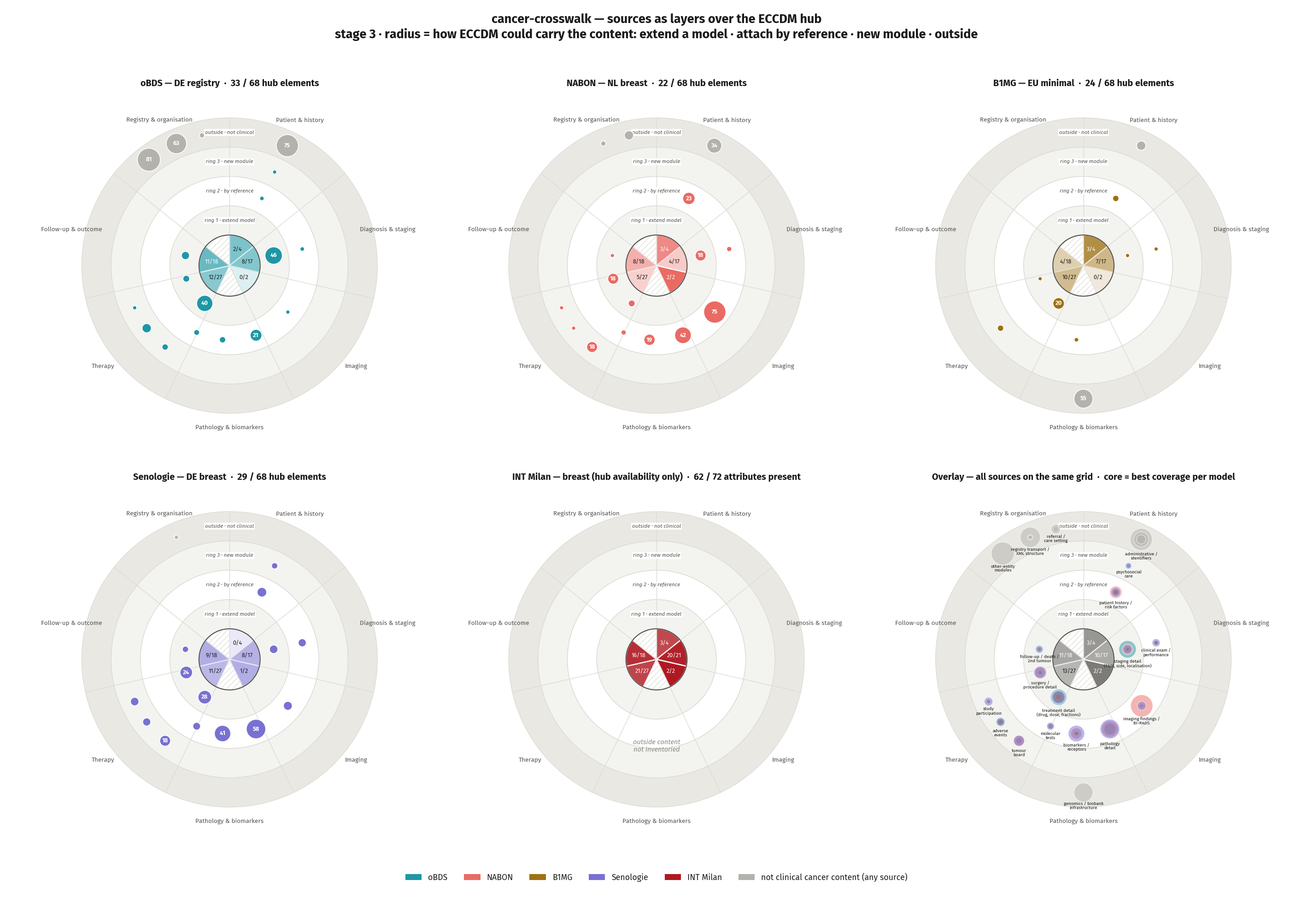
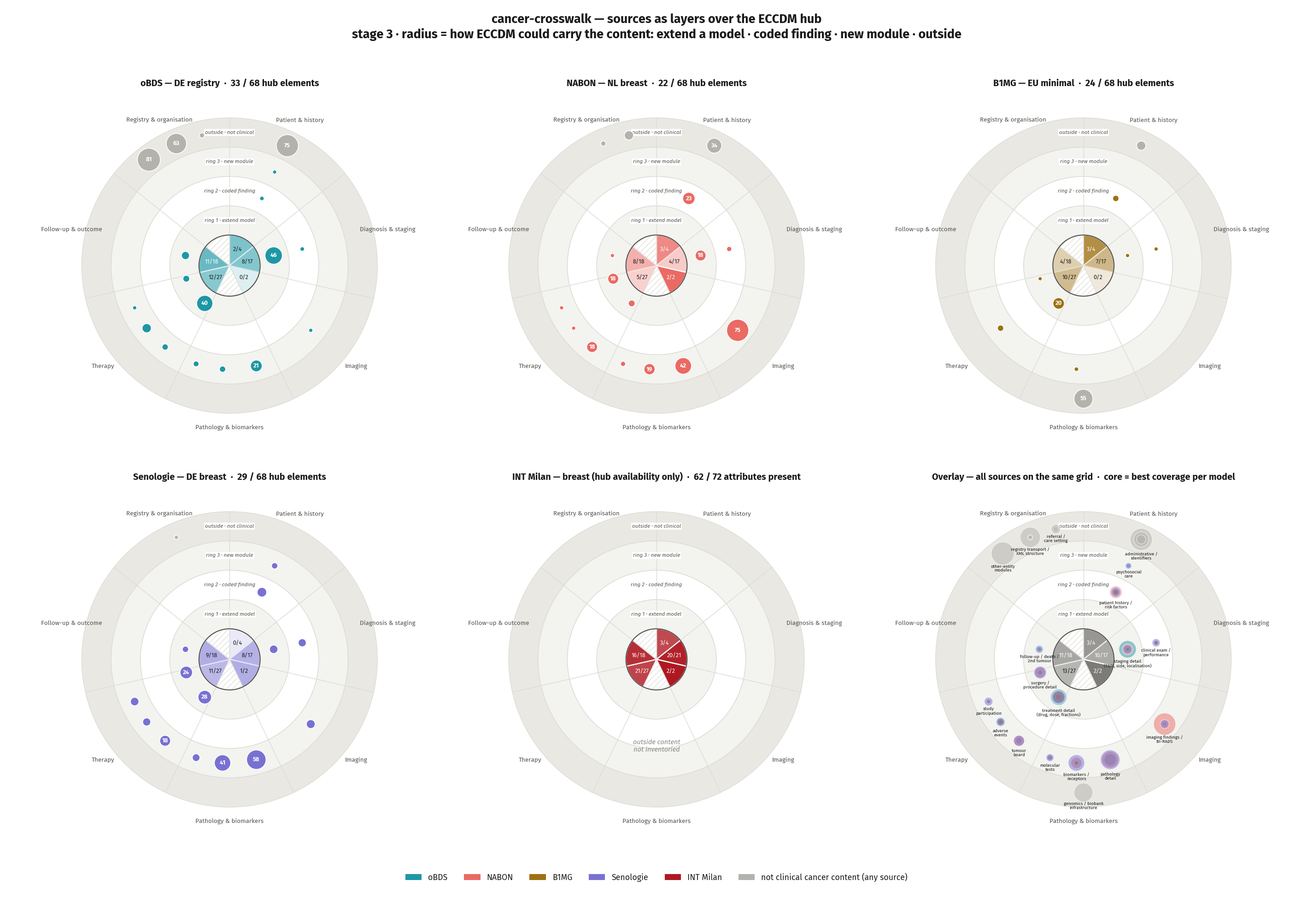
refactor: split the by-reference carriage class into coded-finding and new-module
"Attach a coded finding by reference" only defers the syntactic decision to
the referenced resource. Where the terminology carries the meaning (patient
history / risk factors, clinical examination / performance status, 64 fields)
the class is now coded-finding. Where the meaning needs structure a code alone
cannot carry (pathology detail, imaging findings, biomarkers, molecular tests,
296 fields) the class is new-module, beside the content with no hub
counterpart. Figures, extension-modules page, report and README regenerated.

Claude-Session: https://claude.ai/code/session_01WAuHsZpSYwr6Fppiqh29qT

diff --git a/scripts/inverse_gaps.py b/scripts/inverse_gaps.py
@@ -10,10 +10,18 @@ to the hub and clusters it into candidate **extension modules** (extension
 modules ECCDM would need), classifying each by how it *could* be carried:
 
   carriage:
-    by-reference       -> no hub field, but attachable as referenced evidence
-                          IF ECCDM adds an evidence hook + an Observation/Finding
-                          logical model (e.g. ER/PR/HER2, BI-RADS, pathology).
-    new-module         -> needs a whole new hub model (e.g. tumour board / MDO).
+    coded-finding      -> no hub field, but the terminology carries the meaning:
+                          a generic coded Condition/Observation attached by
+                          evidence reference suffices (comorbidities, risk
+                          factors, performance status).
+    new-module         -> needs a whole new hub model: either the content has
+                          no hub counterpart (tumour board / MDO) or its meaning
+                          needs structure the terminology cannot carry alone
+                          (biomarkers with method and score, BI-RADS, pathology
+                          detail, molecular tests). Note 2026-11-17: these four
+                          were classed by-reference until it became clear that
+                          "attach a coded finding" only defers the syntactic
+                          decision to the referenced resource.
     out-of-scope       -> administrative / genomics-infrastructure, not clinical
                           content ECCDM aims to model.
 
@@ -56,7 +64,7 @@ SOURCES = {
 # Anything left is "Unclustered / to triage".
 #
 # carriage (how ECCDM could carry the field):
-#   by-reference  attachable as a referenced Observation/Finding (data dictionary)
+#   coded-finding attachable as a generic coded Condition/Observation (terminology-carried)
 #   extend-model  attribute-level detail of an EXISTING hub model
 #   new-module    needs a whole new hub model
 #   out-of-scope  not clinical cancer content ECCDM targets
@@ -94,19 +102,19 @@ MODULES = [
       "complicat", "komplpostop"]),
     ("Psychosocial / supportive care", "new-module",
      ["psychoonko", "sozialdienst", "maatschappelijk"]),
-    ("Biomarker / receptor status", "by-reference",
+    ("Biomarker / receptor status", "new-module",
      ["her2", "hormonrez", "oestrogen", "estrogen", "progesteron", "receptor",
       "rezeptor", "ki-67", "ki67", "pd-l1", "pdl1", "immunhisto", "allred", "irsscore",
       "irs-score", ".biomarker", "proliferatie"]),
-    ("Molecular tests / genomics", "by-reference",
+    ("Molecular tests / genomics", "new-module",
      ["oncotype", "mammaprint", "genexpress", "genetic", "genetik", "genetisch",
       "genmutatie", "genprofiel", "variant", "mutation", "sequenc", "genom",
       "moleculair", "gen_name"]),
-    ("Clinical examination / performance status", "by-reference",
+    ("Clinical examination / performance status", "coded-finding",
      ["klinischeuntersuchung", "palpation", "mamillenbefund", "hautveraend",
       "lichamelijk onderzoek", "performance", "leistungszustand", " asa ", "ecog",
       "karnofsky", "tumorformel", "clinical_status", "huidig probleem", "palpabel"]),
-    ("Imaging findings / BI-RADS", "by-reference",
+    ("Imaging findings / BI-RADS", "new-module",
      ["bi-rads", "birads", " acr ", "acrdichte", "mammografie", "echografie", "mammograf", "massa",
       "calcificat", "aankleuring", "densiteit", "echogenic", "laesie", "beeldvormend",
       "radiolog", "mri", "echo", "enhancement", "cyste", "asymmetrie", "elasticit",
@@ -121,7 +129,7 @@ MODULES = [
       "oriëntatie", "specifieke diagnosen", "uitslag beeldvormend", "tussentijdse controle",
       "restcalcificaties", "intraoperativesimaging", "imaging", " positie ", " diameter ",
       " bevindingen "]),
-    ("Pathology detail", "by-reference",
+    ("Pathology detail", "new-module",
      ["resekt", "snijvlak", "margin", "sentinel", "schildwacht", "lymfeklier",
       "lymphknoten", "lk_", "lkratio", "invasief", "invasiv", "dcis", "nottingham",
       "mitose", "tubulus", "grading", " grad ", ".grad ", "graad", "praeparat",
@@ -130,7 +138,7 @@ MODULES = [
       "residualstatus", "sicherheitsabstand", "huidinvasie", "tumordistributie",
       "tumorgroesse", "multifokal", "pt-diameter", "pn okselklier", "ypn okselklier",
       "mariklier", "intrammaire", "chemonutzen", "subtyp"]),
-    ("Patient history / risk factors", "by-reference",
+    ("Patient history / risk factors", "coded-finding",
      ["menopau", "anamnese", "voorgeschied", "gravida", "schwangerschaft", "familie",
       "brca", "zwanger", "borstvoedend", "allergie", "nierfunctie", "smoking",
       "raucher", "age_at", "history", "erblich", "fruehere_tumorerkrankung",
@@ -408,7 +416,7 @@ def main() -> int:
             totals[src] += 1
 
     # order modules by carriage then size
-    carr_rank = {"by-reference": 0, "extend-model": 1, "new-module": 2,
+    carr_rank = {"coded-finding": 0, "extend-model": 1, "new-module": 2,
                  "out-of-scope": 3, "review": 4}
     mods = sorted(by_module, key=lambda m: (carr_rank[carriage_of[m]],
                                             -sum(len(v) for v in by_module[m].values())))
@@ -417,11 +425,13 @@ def main() -> int:
              "Generated by `scripts/inverse_gaps.py`. Every source element that maps",
              "to NO ECCDM hub element, clustered into candidate extension modules and",
              "classified by how ECCDM could carry it.\n",
-             "- **by-reference** — needs an evidence hook + an Observation/Finding "
-             "logical model on the hub; the finding then hangs off by reference.",
+             "- **coded-finding** — the terminology carries the meaning: a generic coded "
+             "Condition/Observation attached by evidence reference suffices.",
              "- **extend-model** — attribute-level detail of a model ECCDM already "
              "has (CancerStage, SystemicTreatment, Radiotherapy, Surgery, LastFollowUp).",
-             "- **new-module** — needs a whole new hub model.",
+             "- **new-module** — needs a whole new hub model, either because the hub has no "
+             "counterpart or because the meaning needs structure (method, score, side) that a "
+             "code alone cannot carry.",
              "- **out-of-scope** — administrative, registry transport, other-entity "
              "organ modules, genomics infrastructure: not clinical content ECCDM targets.",
              "- **review** — structural leaves whose context was lost in extraction.\n",

diff --git a/scripts/outside_hub.py b/scripts/outside_hub.py
@@ -62,13 +62,13 @@ C_MUTED = fs.MUTED
 C_GRID = fs.GRID
 C_SURF = fs.SURF
 FS = 1.0                                     # font scale, raised in --slide mode
-CARRIAGE_COLOUR = {"by-reference": C_EXT, "extend-model": C_EXT, "new-module": C_EXT,
+CARRIAGE_COLOUR = {"coded-finding": C_EXT, "extend-model": C_EXT, "new-module": C_EXT,
                    "out-of-scope": C_OOS, "review": C_TRIAGE}
 CARRIAGE_LABEL = {
-    "by-reference": "clinical content with no hub home",
+    "coded-finding": "clinical content with no hub home",
     "out-of-scope": "not clinical cancer content — out of scope for ECCDM",
 }
-CARRIAGE_SHORT = {"by-reference": "by reference", "extend-model": "extend model",
+CARRIAGE_SHORT = {"coded-finding": "coded finding", "extend-model": "extend model",
                   "new-module": "new module", "out-of-scope": "out of scope",
                   "review": "review"}
 
@@ -94,7 +94,7 @@ def collect():
             theme, carr = classify(r)
             carriage[theme] = carr
             matrix[theme][src] += 1
-            if carr in ("by-reference", "extend-model", "new-module"):
+            if carr in ("coded-finding", "extend-model", "new-module"):
                 c["ext"] += 1
             elif carr == "out-of-scope":
                 c["oos"] += 1
@@ -175,7 +175,7 @@ def main() -> int:
 
     # ---------------- B · outside content: source x theme dot matrix ----------
     themes = [t for t in matrix if carriage[t] != "review"]
-    rank = {"by-reference": 0, "extend-model": 1, "new-module": 2, "out-of-scope": 3}
+    rank = {"coded-finding": 0, "extend-model": 1, "new-module": 2, "out-of-scope": 3}
     themes.sort(key=lambda t: (rank[carriage[t]], -sum(matrix[t].values())))
     nmax = max(matrix[t][s] for t in themes for s in srcs)
     smax = 1050   # pt² for the largest dot
@@ -231,7 +231,7 @@ def main() -> int:
 
     handles = [Line2D([], [], marker="o", linestyle="", markersize=9,
                       color=CARRIAGE_COLOUR[k], label=CARRIAGE_LABEL[k])
-               for k in ("by-reference", "out-of-scope")]
+               for k in ("coded-finding", "out-of-scope")]
     if args.slide:
         axA.legend(handles=[Patch(facecolor=c, label=l) for k, c, l in segs if k in used] + handles,
                    loc="upper left", bbox_to_anchor=(-0.02, -0.3), ncol=1, frameon=False,

diff --git a/scripts/hub_layers.py b/scripts/hub_layers.py
@@ -53,7 +53,7 @@ C_OOS = fs.OOS
 F = {"title": 9.5, "sector": 6.5, "ring": 5.6, "core": 6, "bubble": 6.2, "cat": 4.6, "legend": 8.5, "note": 7}
 F_PAIR = {"title": 14, "sector": 10.5, "ring": 8.5, "core": 9.5, "bubble": 9.5, "cat": 7.2, "legend": 12, "note": 10}
 R_MAX = 0.45
-RING_LABEL = {1: "ring 1 · extend model", 2: "ring 2 · by reference",
+RING_LABEL = {1: "ring 1 · extend model", 2: "ring 2 · coded finding",
               3: "ring 3 · new module", 4: "outside · not clinical"}
 
 
@@ -246,7 +246,7 @@ def render(stage: int, out: Path, data):
                fontsize=F["legend"], bbox_to_anchor=(0.5, 0.01))
     sub = {1: "one circle per source · angle = clinical domain · core = ECCDM models, shade = hub coverage · bubble area = fields with no hub home",
            2: "stage 2 · the overlay shows where the sources coincide",
-           3: "stage 3 · radius = how ECCDM could carry the content: extend a model · attach by reference · new module · outside"}[stage]
+           3: "stage 3 · radius = how ECCDM could carry the content: extend a model · coded finding · new module · outside"}[stage]
     fig.suptitle(f"cancer-crosswalk — sources as layers over the ECCDM hub\n{sub}",
                  fontsize=13, fontweight="bold", y=0.985)
     fig.subplots_adjust(left=0.02, right=0.98, top=0.9, bottom=0.07, wspace=0.05, hspace=0.12)

diff --git a/scripts/hub_target.py b/scripts/hub_target.py
@@ -8,7 +8,7 @@ Polar layout.
   * radius = carriage, i.e. distance from the hub:
              core      ECCDM's own models (filled by hub coverage)
              ring 1    extend-model  — finer attributes on a model ECCDM has
-             ring 2    by-reference  — coded findings attached by evidence reference
+             ring 2    coded-finding — generic coded finding, terminology-carried
              ring 3    new-module    — needs a new hub model
              outside   out-of-scope  — not clinical cancer content
   * bubble area = unmapped source fields in that category; the inner disc is
@@ -81,8 +81,8 @@ CATEGORY = {
     "Other-entity & paediatric registry modules (prostate, colorectal, melanoma, DKKR)":
         (6, "other-entity\nmodules"),
 }
-RING = {"extend-model": 1, "by-reference": 2, "new-module": 3, "out-of-scope": 4}
-RING_LABEL = {1: "ring 1\nextend an\nexisting model", 2: "ring 2\nattach by\nevidence reference",
+RING = {"extend-model": 1, "coded-finding": 2, "new-module": 3, "out-of-scope": 4}
+RING_LABEL = {1: "ring 1\nextend an\nexisting model", 2: "ring 2\ncoded finding,\nterminology-carried",
               3: "ring 3\nnew hub\nmodule", 4: "outside\nnot clinical\ncancer content"}
 R_CORE = 1.2
 R_EDGE = [R_CORE, 2.35, 3.5, 4.65, 5.8]      # ring boundaries

diff --git a/scripts/overview.py b/scripts/overview.py
@@ -7,7 +7,7 @@ Panel A (top): model-level hub coverage — 11 ECCDM models x 4 sources, cell
 
 Panel B (bottom): Extension modules — the breast-specific / detailed content
   that has NO hub home, as stacked bars per candidate extension module, coloured
-  by carriage (by-reference / new-module). Shows the hub is a thin generic spine
+  by carriage (coded-finding / extend-model / new-module). Shows the hub is a thin generic spine
   while the specialised detail forms fat extension modules.
 
 Reads hub/eccdm/elements.csv, mappings/*.sssom.tsv, and reuses the clustering
@@ -93,7 +93,7 @@ def main() -> int:
             if r["id"] in mapped:
                 continue
             m, c = ig.classify(r)
-            if c in ("by-reference", "extend-model", "new-module"):   # clinical only
+            if c in ("coded-finding", "extend-model", "new-module"):   # clinical only
                 mod_src[m][src] += 1
                 mod_carr[m] = c
 

diff --git a/scripts/figstyle.py b/scripts/figstyle.py
@@ -47,7 +47,7 @@ OOS_DARK = "#7C7B77"
 
 SRC_COLOUR = {"mii-onko-obds": S_TEAL, "nabon-mammacarcinoom": S_CORAL, "b1mg-cmd": S_OCHRE,
               "senologie-datenkranz": S_LAVENDER, "int-breast": S_RED}
-CARRIAGE_COLOUR = {"by-reference": S_TEAL, "extend-model": S_LAVENDER, "new-module": S_OCHRE,
+CARRIAGE_COLOUR = {"coded-finding": S_TEAL, "extend-model": S_LAVENDER, "new-module": S_OCHRE,
                    "out-of-scope": OOS, "review": BAND2}
 HUB = NAVY
 HUB_RAMP = ["#EEF1F3", "#B7C8D2", "#6C8FA3", "#2F607B", NAVY]   # coverage 0 .. 1, one hue

diff --git a/docs/extension-modules.md b/docs/extension-modules.md
@@ -4,47 +4,22 @@ Generated by `scripts/inverse_gaps.py`. Every source element that maps
 to NO ECCDM hub element, clustered into candidate extension modules and
 classified by how ECCDM could carry it.
 
-- **by-reference** — needs an evidence hook + an Observation/Finding logical model on the hub; the finding then hangs off by reference.
+- **coded-finding** — the terminology carries the meaning: a generic coded Condition/Observation attached by evidence reference suffices.
 - **extend-model** — attribute-level detail of a model ECCDM already has (CancerStage, SystemicTreatment, Radiotherapy, Surgery, LastFollowUp).
-- **new-module** — needs a whole new hub model.
+- **new-module** — needs a whole new hub model, either because the hub has no counterpart or because the meaning needs structure (method, score, side) that a code alone cannot carry.
 - **out-of-scope** — administrative, registry transport, other-entity organ modules, genomics infrastructure: not clinical content ECCDM targets.
 - **review** — structural leaves whose context was lost in extraction.
 
 Unmapped source elements: mii-onko-obds 388, nabon-mammacarcinoom 283, b1mg-cmd 106, senologie-datenkranz 260.
 
-## Pathology detail  ·  _by-reference_  (121 fields)
-
-- **mii-onko-obds** (21): Befundtext, Gesamtbeurteilung_Residualstatus, Histologie, Histologie_EinsendeNr, LK_befallen, LK_untersucht, Lokale_Beurteilung_Residualstatus, Pathologie … (+6)
-- **nabon-mammacarcinoom** (42): Aantal onderzochte lymfeklieren, Aantal positieve lymfeklieren, Aantal verdachte lymfeklieren, Aanvullende pathologie, Afstand tot tumorpositieve snijvlak, Angioinvasie, Beoordeling lymfeklieren, ER-percentage lymfeklieren … (+34)
-- **senologie-datenkranz** (58): Diagnose.DiagnoseB3SubTyp, Pathologie, Pathologie.AbsoluterChemoNutzen, Pathologie.BefundDCIS, Pathologie.BefundDCIS.Art, Pathologie.BefundDCIS.MaxAusdehnung, Pathologie.BefundDCIS.R, Pathologie.BefundDCIS.Resektionsraender … (+50)
-
-## Imaging findings / BI-RADS  ·  _by-reference_  (88 fields)
-
-- **mii-onko-obds** (1): IntraopPraeparatkontrolle
-- **nabon-mammacarcinoom** (75): Aankleuringspatroon massa, Aankleuringspatroon non-mass enhancement, Asymmetrie, BI-RADS (birads), Begrenzing massa, Begrenzing massa MRI, Bevindingen, Calcificaties … (+67)
-- **senologie-datenkranz** (12): BildgebungMamma, BildgebungMamma.ACRDichte, BildgebungMamma.BIRADS, BildgebungMamma.Befundtext, BildgebungMamma.Herdbefund, BildgebungMamma.LymphknotenBildgebung, BildgebungMamma.Mikrokalk, BildgebungMamma.Standort … (+4)
-
-## Biomarker / receptor status  ·  _by-reference_  (69 fields)
-
-- **mii-onko-obds** (6): Her2neuStatus, HormonrezeptorStatus_Oestrogen, HormonrezeptorStatus_Progesteron
-- **nabon-mammacarcinoom** (19): Bepaling receptorstatus, ER-percentage afwijking postoperatief, ER-percentage afwijking preoperatief, ER-percentage metastase, ER-status afwijking postoperatief, ER-status afwijking preoperatief, ER-status metastase, ER-status recidief … (+11)
-- **b1mg-cmd** (3): Code, Name, Type
-- **senologie-datenkranz** (41): Pathologie.BefundDCIS.Biomarker, Pathologie.BefundDCIS.Biomarker.ER, Pathologie.BefundDCIS.Biomarker.ER.AllredScore, Pathologie.BefundDCIS.Biomarker.ER.Faerbeintensitaet, Pathologie.BefundDCIS.Biomarker.ER.Gesamtstatus, Pathologie.BefundDCIS.Biomarker.ER.IRSScore, Pathologie.BefundDCIS.Biomarker.ER.ProzentPositiveZellen, Pathologie.BefundDCIS.Biomarker.HER2 … (+33)
-
-## Patient history / risk factors  ·  _by-reference_  (46 fields)
+## Patient history / risk factors  ·  _coded-finding_  (46 fields)
 
 - **mii-onko-obds** (3): Fruehere_Tumorerkrankung, Praetherapeutischer_Menopausenstatus, Syndrom_oder_sonstiges
 - **nabon-mammacarcinoom** (23): Aandoeningen familieanamnese, Aantal familieleden, Anamnese, Bekend met nierfunctiestoornis, BiologischeRelatie, Borstvoedend, Contrastallergie, Datum … (+14)
 - **b1mg-cmd** (6): Age_at_Diagnosis, History, Name, Quantity, Smoking_Status, Type
 - **senologie-datenkranz** (14): ChecklisteErblicheBelastung, ChecklisteErblicheBelastung.Durchgefuehrt, ChecklisteErblicheBelastung.Score, Familienanamnese, Familienanamnese.Mammakarzinom, Familienanamnese.Mammakarzinom.Erkrankungsalter, Familienanamnese.Ovarialkarzinom, Familienanamnese.Ovarialkarzinom.Erkrankungsalter … (+6)
 
-## Molecular tests / genomics  ·  _by-reference_  (18 fields)
-
-- **mii-onko-obds** (5): Auspraegung, Bezeichnung, Datum, Genetische_Variante, Sonstige_Auspraegung
-- **nabon-mammacarcinoom** (4): Genetisch onderzoek verricht, Genmutatie, Genprofieltest, Mammaprint
-- **senologie-datenkranz** (9): Genetik, Genetik.Genexpressionstest, Genetik.Genexpressionstest.Fernrezidivrisiko, Genetik.Genexpressionstest.Risikoklasse, Genetik.Genexpressionstest.Score, Genetik.Genexpressionstest.Testmethode, Genetik.SomatischeMutation, Genetik.SomatischeMutation.Ergebnis … (+1)
-
-## Clinical examination / performance status  ·  _by-reference_  (18 fields)
+## Clinical examination / performance status  ·  _coded-finding_  (18 fields)
 
 - **mii-onko-obds** (3): ASA, Allgemeiner_Leistungszustand
 - **nabon-mammacarcinoom** (4): Algemeen lichamelijk onderzoek, Huidig probleem, Palpabel, WHO Performance status
@@ -78,6 +53,25 @@ Unmapped source elements: mii-onko-obds 388, nabon-mammacarcinoom 283, b1mg-cmd 
 - **nabon-mammacarcinoom** (1): Follow-up
 - **senologie-datenkranz** (6): Verlauf, Verlauf.Melder, Verlauf.NachsorgeArt, Verlauf.ZweitttumorDatum, Verlauf.ZweitttumorICD, Verlauf.Zweittumor
 
+## Pathology detail  ·  _new-module_  (121 fields)
+
+- **mii-onko-obds** (21): Befundtext, Gesamtbeurteilung_Residualstatus, Histologie, Histologie_EinsendeNr, LK_befallen, LK_untersucht, Lokale_Beurteilung_Residualstatus, Pathologie … (+6)
+- **nabon-mammacarcinoom** (42): Aantal onderzochte lymfeklieren, Aantal positieve lymfeklieren, Aantal verdachte lymfeklieren, Aanvullende pathologie, Afstand tot tumorpositieve snijvlak, Angioinvasie, Beoordeling lymfeklieren, ER-percentage lymfeklieren … (+34)
+- **senologie-datenkranz** (58): Diagnose.DiagnoseB3SubTyp, Pathologie, Pathologie.AbsoluterChemoNutzen, Pathologie.BefundDCIS, Pathologie.BefundDCIS.Art, Pathologie.BefundDCIS.MaxAusdehnung, Pathologie.BefundDCIS.R, Pathologie.BefundDCIS.Resektionsraender … (+50)
+
+## Imaging findings / BI-RADS  ·  _new-module_  (88 fields)
+
+- **mii-onko-obds** (1): IntraopPraeparatkontrolle
+- **nabon-mammacarcinoom** (75): Aankleuringspatroon massa, Aankleuringspatroon non-mass enhancement, Asymmetrie, BI-RADS (birads), Begrenzing massa, Begrenzing massa MRI, Bevindingen, Calcificaties … (+67)
+- **senologie-datenkranz** (12): BildgebungMamma, BildgebungMamma.ACRDichte, BildgebungMamma.BIRADS, BildgebungMamma.Befundtext, BildgebungMamma.Herdbefund, BildgebungMamma.LymphknotenBildgebung, BildgebungMamma.Mikrokalk, BildgebungMamma.Standort … (+4)
+
+## Biomarker / receptor status  ·  _new-module_  (69 fields)
+
+- **mii-onko-obds** (6): Her2neuStatus, HormonrezeptorStatus_Oestrogen, HormonrezeptorStatus_Progesteron
+- **nabon-mammacarcinoom** (19): Bepaling receptorstatus, ER-percentage afwijking postoperatief, ER-percentage afwijking preoperatief, ER-percentage metastase, ER-status afwijking postoperatief, ER-status afwijking preoperatief, ER-status metastase, ER-status recidief … (+11)
+- **b1mg-cmd** (3): Code, Name, Type
+- **senologie-datenkranz** (41): Pathologie.BefundDCIS.Biomarker, Pathologie.BefundDCIS.Biomarker.ER, Pathologie.BefundDCIS.Biomarker.ER.AllredScore, Pathologie.BefundDCIS.Biomarker.ER.Faerbeintensitaet, Pathologie.BefundDCIS.Biomarker.ER.Gesamtstatus, Pathologie.BefundDCIS.Biomarker.ER.IRSScore, Pathologie.BefundDCIS.Biomarker.ER.ProzentPositiveZellen, Pathologie.BefundDCIS.Biomarker.HER2 … (+33)
+
 ## Tumour board / MDO  ·  _new-module_  (42 fields)
 
 - **mii-onko-obds** (6): Abweichung_Patientenwunsch, Datum, Therapieempfehlung, Tumorkonferenz, Typ, Typ_Therapieempfehlung
@@ -90,6 +84,12 @@ Unmapped source elements: mii-onko-obds 388, nabon-mammacarcinoom 283, b1mg-cmd 
 - **nabon-mammacarcinoom** (1): Complicaties
 - **b1mg-cmd** (6): Adverse_Events, Toxicity_Type
 - **senologie-datenkranz** (10): Nebenwirkung, Nebenwirkung.CTCAEGrad, Nebenwirkung.Datum, Nebenwirkung.Ereignis, Nebenwirkung.VerursachendeTherapie, Operation.Komplikation, Operation.Komplikation.Art, Operation.Komplikation.ClavienDindo … (+2)
+
+## Molecular tests / genomics  ·  _new-module_  (18 fields)
+
+- **mii-onko-obds** (5): Auspraegung, Bezeichnung, Datum, Genetische_Variante, Sonstige_Auspraegung
+- **nabon-mammacarcinoom** (4): Genetisch onderzoek verricht, Genmutatie, Genprofieltest, Mammaprint
+- **senologie-datenkranz** (9): Genetik, Genetik.Genexpressionstest, Genetik.Genexpressionstest.Fernrezidivrisiko, Genetik.Genexpressionstest.Risikoklasse, Genetik.Genexpressionstest.Score, Genetik.Genexpressionstest.Testmethode, Genetik.SomatischeMutation, Genetik.SomatischeMutation.Ergebnis … (+1)
 
 ## Study participation  ·  _new-module_  (15 fields)
 

diff --git a/docs/REPORT.md b/docs/REPORT.md
@@ -78,9 +78,11 @@ and a justification. We validate every set with the official `sssom` toolkit.
 > - **hub coverage** — of ECCDM's 68 elements, how many a source reaches.
 > - **source coverage** — of a source's fields, how many reach the hub.
 > - **carriage** — for an unmapped source field, *how* ECCDM could carry it:
->   `by-reference` (as a referenced observation), `extend-model` (attribute-level
->   detail on a model ECCDM already has), `new-module` (needs a new hub model),
->   or `out-of-scope` (not clinical cancer content).
+>   `coded-finding` (a generic coded Condition/Observation attached by reference;
+>   the terminology carries the meaning), `extend-model` (attribute-level
+>   detail on a model ECCDM already has), `new-module` (needs a hub model, either
+>   because the hub has no counterpart or because the meaning needs structure a
+>   code alone cannot carry), or `out-of-scope` (not clinical cancer content).
 
 ## 4. How to read the figures
 
@@ -90,8 +92,7 @@ sources; each cell shows *elements mapped / model size*, darker = higher
 coverage. This is the "how much of the generic hub is filled" view.
 *Panel B* — the extension need: the clinical fields that have **no** hub home,
 grouped into named information categories, sized by how many fields, coloured
-by carriage (blue = by-reference, green = extend an existing model, orange = new
-module). This is the "what the hub is missing" view.
+by source, tagged with the carriage class. This is the "what the hub is missing" view.
 
 ![**Figure 1.** Generic ECCDM spine (A) vs breast-specific extension need (B).](overview.png){ width=100% }
 
@@ -116,7 +117,7 @@ many sources share the category and how ECCDM could carry it.
 ECCDM models sit in the core, shaded by hub coverage. Angle is the clinical
 domain, clockwise along the care pathway. Radius is how ECCDM could carry the
 missing content: ring 1 extends a model ECCDM already has, ring 2 attaches a
-coded finding by evidence reference, ring 3 needs a new hub module, and the
+generic coded finding the terminology carries, ring 3 needs a hub model, and the
 outer band is not clinical cancer content. Bubble area is the number of
 unmapped fields; the inner violet disc is the **breast-cancer-specific** share
 (keyword-tagged, a lower bound); the four-cell strip marks which sources
@@ -163,16 +164,18 @@ infrastructure in B1MG (55), referral / care setting (17).
 
 The clinical 693 split by carriage:
 
-- **by-reference** (coded observations, 360): pathology detail (121), imaging
-  findings / BI-RADS (88), biomarker / receptor status (69), patient history /
-  risk factors (46), molecular tests (18), clinical examination / performance
-  status (18).
+- **coded-finding** (the terminology carries the meaning, 64): patient history /
+  risk factors (46), clinical examination / performance status (18). A generic
+  coded Condition or Observation attached by evidence reference suffices.
 - **extend-model** (finer attributes on models ECCDM already has, 238):
   treatment detail — drug, dose, cycles, fractions, technique (95); diagnosis /
   staging detail — TNM prefixes and symbols, localisation, side (76); surgery /
   procedure detail — biopsy, implants, planning (50); follow-up, response, death
   and second tumour (17).
-- **new-module** (95): tumour board / MDO (42), adverse events / complications
+- **new-module** (391): content whose meaning needs structure a code alone cannot
+  carry — pathology detail (121), imaging findings / BI-RADS (88), biomarker /
+  receptor status (69), molecular tests (18) — and content with no hub
+  counterpart: tumour board / MDO (42), adverse events / complications
   (30), study participation (15), psychosocial / supportive care (8).
 
 Per source, the *outside-but-clinical* share is 86 % for Senologie, 74 % for
@@ -213,12 +216,12 @@ The missing content maps onto a short wishlist, ordered by effort:
 
 | module | fields | carriage | nature |
 |---|---|---|---|
-| Pathology detail (margins, sentinel nodes, invasive/DCIS, grading) | 121 | by-reference | data dictionary (Observations + value sets) |
-| Imaging findings / BI-RADS | 88 | by-reference | data dictionary |
-| Biomarker / receptor status (ER/PR/HER2, Ki-67, PD-L1) | 69 | by-reference | data dictionary |
-| Patient history / risk factors (family history, menopause, pregnancy) | 46 | by-reference | data dictionary |
-| Molecular tests (Oncotype, MammaPrint, somatic mutations) | 18 | by-reference | data dictionary |
-| Clinical examination / performance status | 18 | by-reference | data dictionary |
+| Pathology detail (margins, sentinel nodes, invasive/DCIS, grading) | 121 | new-module | findings model: specimen, site, margin, method |
+| Imaging findings / BI-RADS | 88 | new-module | findings model: side, lesion, category |
+| Biomarker / receptor status (ER/PR/HER2, Ki-67, PD-L1) | 69 | new-module | Biomarker model: method, score system, result |
+| Patient history / risk factors (family history, menopause, pregnancy) | 46 | coded-finding | generic coded Condition/Observation + value sets |
+| Molecular tests (Oncotype, MammaPrint, somatic mutations) | 18 | new-module | test model: assay, gene, result |
+| Clinical examination / performance status | 18 | coded-finding | generic coded Observation + value sets |
 | Treatment detail (drug, dose, cycles, fractions, technique) | 95 | extend-model | attributes on SystemicTreatment / Radiotherapy |
 | Diagnosis / staging detail (TNM prefixes & symbols, localisation, side) | 76 | extend-model | attributes on CancerStage / CancerConditionAtDiagnosis |
 | Surgery / procedure detail (biopsy, implants, planning) | 50 | extend-model | attributes on Surgery |

diff --git a/README.md b/README.md
@@ -92,7 +92,7 @@ sssom validate mappings/*.sssom.tsv
 
 Hub coverage: **63 %** (43 / 68 elements). Of the 1,037 unmapped source
 fields, 693 are clinical content ECCDM would need (14 named categories:
-by-reference / extend-model / new-module) and 344 are out of scope
+coded-finding / extend-model / new-module) and 344 are out of scope
 (administrative, registry transport, other-entity organ modules, biobank
 infrastructure) — see `docs/outside-hub.png` and `docs/extension-modules.md`.
 **All 148 element mappings are `proposed` (not expert-reviewed).**
